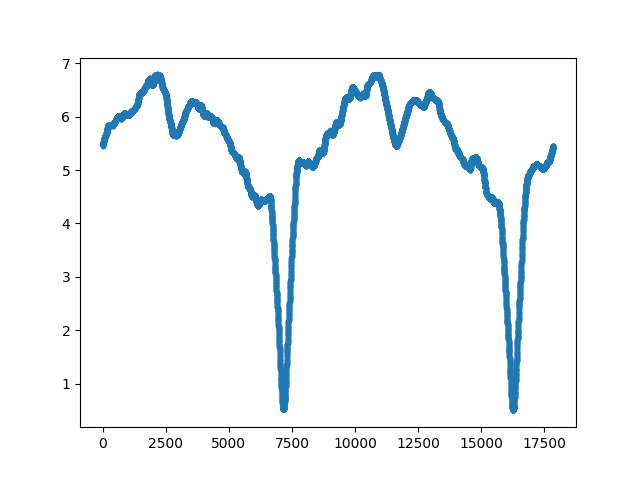
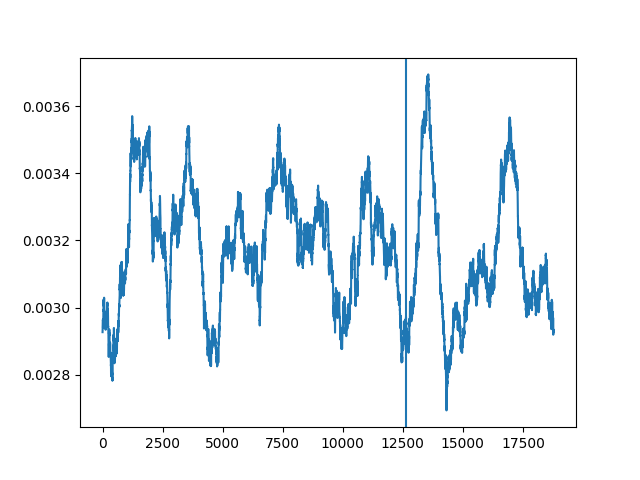
update..

diff --git a/src/gputls/core.py b/src/gputls/core.py
@@ -314,16 +314,50 @@ def search_multi_periods(
     generateTrapezoidFitGPU((gridSizeX,1,1),(blockSize,1,1),(bestTrapezoidFitGPU,
     bestFitTid,cp.int32(durations[durationIndex]),cp.int32(trapezoidFitSize),cp.float32(BestFitDepth)))
 
+    # # Normalize Trapezoid Fit and patched data
+    # patchDataMin = patchedDatasGPU[HighestPowerIndex].min()
+    # bestFoldedDataGPU = (patchedDatasGPU[HighestPowerIndex] - patchDataMin)/(1 - patchDataMin)
+    # bestTrapezoidFitGPU = (bestTrapezoidFitGPU - patchDataMin)/(1 - patchDataMin)
+
     # Find loss for each point
     lossGPU = cp.empty(len(t),dtype=cp.float32)
-    trapezoidSNRAtomGPU = module.get_function('trapezoidSNRAtom')
+    trapezoidSNRlossGPU = module.get_function('trapezoidSNRloss')
     blockSize,gridSizeX = calcGridBlockSize(len(t))
-    trapezoidSNRAtomGPU((gridSizeX,1,1),(blockSize,1,1),(lossGPU,cp.int32(len(t)),patchedDatasGPU[HighestPowerIndex],
+    trapezoidSNRlossGPU((gridSizeX,1,1),(blockSize,1,1),(lossGPU,cp.int32(len(t)),patchedDatasGPU[HighestPowerIndex],
     inverseSquaredPatchedDysGPU[HighestPowerIndex],cp.int32(durations[durationIndex]),bestTrapezoidFitGPU))
     if bestRowT0 > len(t) - 1:
         bestRowT0 = bestRowT0 - len(t) 
     T0loss = lossGPU[bestRowT0]
     lossSDE = cp.abs(T0loss - cp.mean(lossGPU))/cp.std(lossGPU)
+
+    # --debug ----
+    # lossAtomGPU = cp.empty((len(t),durations[durationIndex]),dtype=cp.float32)
+    # trapezoidSNRlossAtomGPU = module.get_function('trapezoidSNRlossAtom')
+    # blockSize,gridSizeX = calcGridBlockSize(len(t))
+    # trapezoidSNRlossAtomGPU((durations[durationIndex],gridSizeX,1),(1,blockSize,1),(lossAtomGPU,cp.int32(len(t)),patchedDatasGPU[HighestPowerIndex],
+    # inverseSquaredPatchedDysGPU[HighestPowerIndex],cp.int32(durations[durationIndex]),bestTrapezoidFitGPU))
+
+    # lossStd = cp.std(lossAtomGPU,axis=-1)
+    # T0loss = lossStd[bestRowT0]
+    # lossSDE = cp.abs(T0loss - cp.mean(lossStd))/cp.std(lossStd)
+    # print('lossSDE',lossSDE.get())
+    
+    # import matplotlib.pyplot as plt
+    # print('bestTrapezoidFitGPU',bestTrapezoidFitGPU.shape)
+
+    # # plt.plot(bestTrapezoidFitGPU.get())
+    # plt.plot(lossGPU.get())
+    # # plt.plot(lossStd.get())
+    # # plt.ylim(0,10**-6)
+    # plt.axvline(bestRowT0)
+    # plt.savefig('lossGPU.png')
+    # plt.close()
+
+    # -- debug end ----
+
+    # dft = cp.abs(cp.fft.rfft(patchedDatasGPU[HighestPowerIndex]))[50:]
+    # line = dft[100:].mean() + 3 * dft[100:].std()
+    # outlineValue = len([x for x in dft[100:] if x > line])
 
     # snrFit = (1 - BestFitDepth)*(durations[durationIndex] ** 0.5)/cp.std(trapezoidFitResultGPU[bestFitTid])
     snrFit = (1 - BestFitDepth)*(durations[durationIndex] ** 0.5)/np.std(dataOutTransit)
@@ -377,4 +411,5 @@ def search_multi_periods(
     
     # cp.cuda.runtime.deviceSynchronize()
     # print('After main search, time used:',time.time() - start,'s')
-    return periods,period,rawDuration,transit_duration_in_days,BestFitDepth,T0,SDE,chi2,transit_times,power,snr,snr_pink,snrFit,snrFitPink,lossSDE
+    outlineValue = None
+    return periods,period,rawDuration,durations[durationIndex],transit_duration_in_days,BestFitDepth,T0,SDE,chi2,transit_times,power,snr,snr_pink,snrFit,snrFitPink,lossSDE,outlineValue

diff --git a/src/gputls/GPUFun.py b/src/gputls/GPUFun.py
@@ -410,7 +410,7 @@ extern "C"{
 
     // This function is used after the best period and duration are found, to calculate the "new" SNR, which will delete trapzoid fit form the light curve, 
     // The difference is every single point will subtract the trapezoid fit to calculate the standard deviation of the residual.
-    __global__ void trapezoidSNRAtom(float *results,int resultSize,float *inData, float *inInverseSquaredDys,
+    __global__ void trapezoidSNRloss(float *results,int resultSize,float *inData, float *inInverseSquaredDys,
     int duration, float* trapezoidFit){
         int tid = blockIdx.x * blockDim.x + threadIdx.x;
         if(tid < resultSize){
@@ -425,6 +425,22 @@ extern "C"{
             results[tid] = tempResidual;
         }
     }
+
+    // For debug
+    __global__ void trapezoidSNRlossAtom(float *results,int resultSize,float *inData, float *inInverseSquaredDys,
+    int duration, float* trapezoidFit){
+        int tid = blockIdx.x * blockDim.x + threadIdx.x; // every point's lost in a duration, tid < duration
+        int y = blockIdx.y * blockDim.y + threadIdx.y;  // every first point, y < len(t), which is resultSize
+
+        if(y < resultSize){
+            float *data = inData + y + tid;
+            float *dy = inInverseSquaredDys + y + tid;
+            float *result = results + y*duration + tid; 
+
+            *result  = (*data - trapezoidFit[tid]) * (*data - trapezoidFit[tid]) * (*dy);
+        }
+    }
+
 
     // // This function is used after the best period and duration are found, to calculate the SNR and some other metrics.
     // // 'ForAll' means that it will calculate the loss for all the periods and durations in the trapezoid fit.

diff --git a/src/gputls/main.py b/src/gputls/main.py
@@ -99,7 +99,7 @@ class gtls(object):
 
         periods = np.sort(periods)
 
-        self.periods,self.period,self.rawDuration,self.duration,self.Depth,self.bestT0,SDE,chi2,self.transitTimes,power,snr,snrPink,snrFit,snrFitPink,lossSDE = core.search_multi_periods(
+        self.periods,self.period,self.rawDuration,durationPoints,self.duration,self.Depth,self.bestT0,SDE,chi2,self.transitTimes,power,snr,snrPink,snrFit,snrFitPink,lossSDE,outlineValue = core.search_multi_periods(
             periods=periods,
             t=self.t,
             y=self.y,
@@ -118,7 +118,7 @@ class gtls(object):
             verbose=self.verbose,
         )
         self.rawDurations = durations
-        return gtlsResult(self.periods,self.period,self.rawDuration,durations,self.duration,self.Depth,self.bestT0,SDE,chi2,self.transitTimes,power,snr,snrPink,snrFit,snrFitPink,lossSDE)
+        return gtlsResult(self.periods,self.period,self.rawDuration,durationPoints,durations,self.duration,self.Depth,self.bestT0,SDE,chi2,self.transitTimes,power,snr,snrPink,snrFit,snrFitPink,lossSDE,outlineValue)
     
     def showFit(self):
         def centerFold(time, period, T0):

diff --git a/src/gputls/results.py b/src/gputls/results.py
@@ -1,10 +1,11 @@
 class gtlsResult(object):
     """The results of a GTLS search"""
 
-    def __init__(self, periods,period,rawDuration,rawDurations,duration,depth,T0,SDE,chi2,transitTimes,power,snr,snrPink,snrFit,snrFitPink,lossSDE):
+    def __init__(self, periods,period,rawDuration,durationPoints,rawDurations,duration,depth,T0,SDE,chi2,transitTimes,power,snr,snrPink,snrFit,snrFitPink,lossSDE,outlineValue):
         self.periods = periods
         self.period = period
         self.rawDuration = rawDuration
+        self.durationPoints = durationPoints
         self.rawDurations = rawDurations
         self.duration = duration
         self.depth = 1 - depth
@@ -18,3 +19,4 @@ class gtlsResult(object):
         self.snrFit = snrFit
         self.snrFitPink = snrFitPink
         self.lossSDE = lossSDE
+        self.DFToutlineValue = outlineValue

diff --git a/test1.py b/test1.py
@@ -73,7 +73,7 @@ def findRandomLc():
     #35 can be a good example
     # lc_file = lc_dir + files[10]
     for lc_file in files:
-        if '0000000264301607' in lc_file:
+        if '0000000021132157' in lc_file:
     #     # if '0000000028473414' in lc_file:
     # #     # if '0000000010596267' in lc_file:
     # #     if '0000000015422557' in lc_file:
@@ -125,6 +125,7 @@ if __name__ == '__main__':
           'snr', gtlsResult.snr,'snrPink', gtlsResult.snrPink,'snrFit',gtlsResult.snrFit,'snrFitPink',gtlsResult.snrFitPink)
 
     print('periods searched',(gtlsResult.periods))
+    print('DFToutlineValue',gtlsResult.DFToutlineValue)
 
     # plt.plot(periods,results.chi2,'o',label = 'CPU',color = 'red',markersize = 5,markerfacecolor='none')
     # plt.plot(periods,chi2,'x',label = 'GPU',color = 'black',alpha = 0.3,markersize = 5)